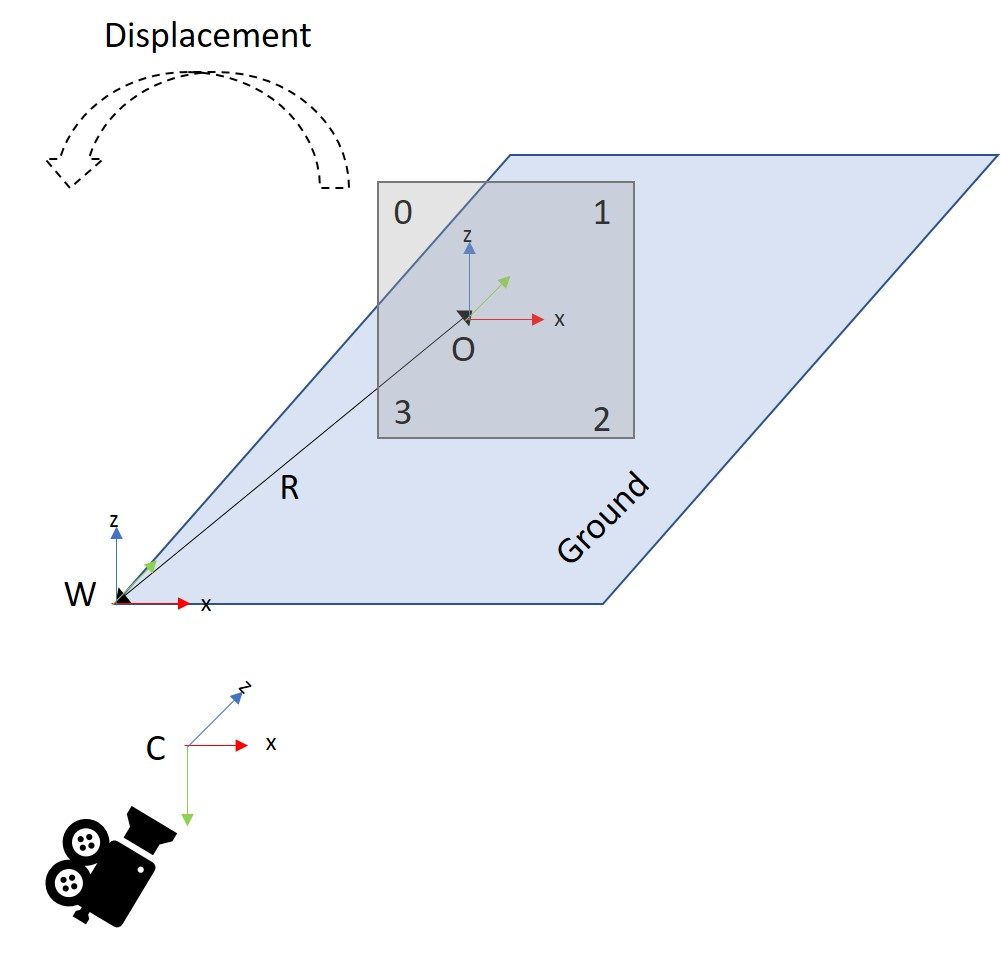
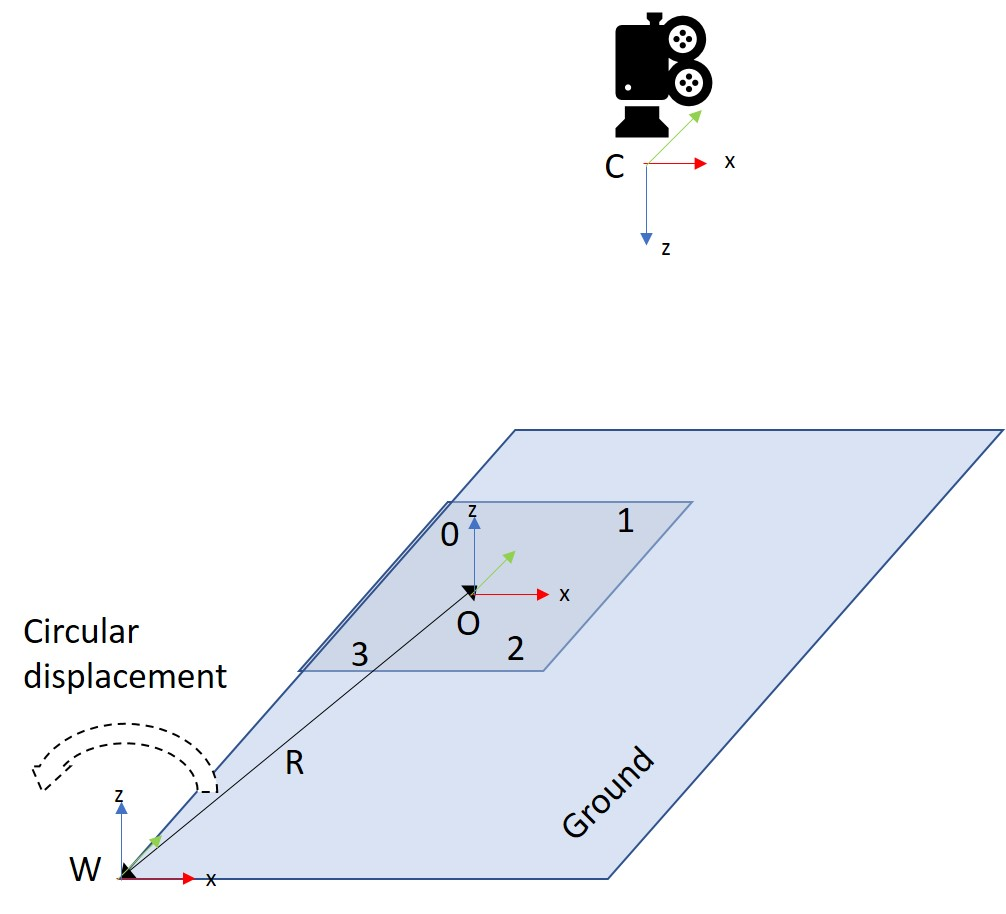
[TUTO] Changed motion in the XZ plane into motion in the XY plane [TUTO][DOC] Updated the documentation and images accordingly

diff --git a/tutorial/kalman/tutorial-ukf.cpp b/tutorial/kalman/tutorial-ukf.cpp
@@ -33,8 +33,9 @@
 /** \example tutorial-ukf.cpp
  * Tutorial on how to use the Unscented Kalman Filter (UKF) on a complex non-linear use-case.
  * The system is an object, whose coordinate frame origin is the point O, on which are sticked four markers.
- * The object revolves around a fixed point W whose coordinate frame is the world frame.
- * The scene is observed by a pinhole camera whose coordinate frame has the origin C.
+ * The object revolves in a plane parallel to the ground around a fixed point W whose coordinate frame is the world frame.
+ * The scene is observed by a pinhole camera whose coordinate frame has the origin C and which is
+ * fixed to the ceiling.
  *
  * The state vector of the UKF is:
  *  \f{eqnarray*}{
@@ -92,9 +93,9 @@
 vpColVector fx(const vpColVector &x, const double & /*dt*/)
 {
   vpColVector x_kPlus1(4);
-  x_kPlus1[0] = x[0] * std::cos(x[3]) - x[2] * std::sin(x[3]); // wX
-  x_kPlus1[1] = x[1]; // wY
-  x_kPlus1[2] = x[0] * std::sin(x[3]) + x[2] * std::cos(x[3]); // wZ
+  x_kPlus1[0] = x[0] * std::cos(x[3]) - x[1] * std::sin(x[3]); // wX
+  x_kPlus1[1] = x[0] * std::sin(x[3]) + x[1] * std::cos(x[3]); // wY
+  x_kPlus1[2] = x[2]; // wZ
   x_kPlus1[3] = x[3]; // omega * dt
   return x_kPlus1;
 }
@@ -113,13 +114,13 @@ public:
    * \param[in] R The radius of the revolution around the world frame origin.
    * \param[in] w The pulsation of the motion.
    * \param[in] phi The phase of the motion.
-   * \param[in] wY The y-coordinate of the object in the world frame.
+   * \param[in] wZ The y-coordinate of the object in the world frame.
    */
-  vpObjectSimulator(const double &R, const double &w, const double &phi, const double &wY)
+  vpObjectSimulator(const double &R, const double &w, const double &phi, const double &wZ)
     : m_R(R)
     , m_w(w)
     , m_phi(phi)
-    , m_wY(wY)
+    , m_wZ(wZ)
   { }
 
   /**
@@ -132,8 +133,8 @@ public:
   {
     vpColVector wX(4, 1.);
     wX[0] = m_R * std::cos(m_w * t + m_phi);
-    wX[1] = m_wY;
-    wX[2] = m_R * std::sin(m_w * t + m_phi);
+    wX[1] = m_R * std::sin(m_w * t + m_phi);
+    wX[2] = m_wZ;
     return wX;
   }
 
@@ -141,7 +142,7 @@ private:
   double m_R; // Radius of the revolution around the world frame origin.
   double m_w; // Pulsation of the motion.
   double m_phi; // Phase of the motion.
-  const double m_wY; // The y-coordinate of the object in the world frame.
+  const double m_wZ; // The z-coordinate of the object in the world frame.
 };
 //! [Object_simulator]
 
@@ -201,7 +202,7 @@ public:
    * \brief Perfect measurement of the projection of the markers in the image when the object
    * is located at \b wX.
    *
-   * \param[in] wX The actual position of the robot (wX[0]: x, wX[1]: y, wX[2] = z.
+   * \param[in] wX The actual position of the robot (wX[0]: x, wX[1]: y, wX[2] = z).
    * \return vpColVector [2*i] u_i [2*i + 1] v_i where i is the index of the marker.
    */
   vpColVector measureGT(const vpColVector &wX)
@@ -227,7 +228,7 @@ public:
    * \brief Noisy measurement of the projection of the markers in the image when the object
    * is located at \b wX.
    *
-   * \param[in] wX The actual position of the robot (wX[0]: x, wX[1]: y, wX[2] = z.
+   * \param[in] wX The actual position of the robot (wX[0]: x, wX[1]: y, wX[2] = z).
    * \return vpColVector [2*i] u_i [2*i + 1] v_i where i is the index of the marker.
    */
   vpColVector measureWithNoise(const vpColVector &wX)
@@ -283,13 +284,13 @@ int main(/*const int argc, const char *argv[]*/)
   //! [Constants_for_simulation]
   const double dt = 0.001; // Period of 0.1s
   const double sigmaMeasurements = 2.; // Standard deviation of the measurements: 2 pixels
-  const double radius = 0.5; // Radius of revolution of 0.5m
+  const double radius = 0.25; // Radius of revolution of 0.25m
   const double w = 2 * M_PI * 10; // Pulsation of the motion of revolution
   const double phi = 2; // Phase of the motion of revolution
-  const std::vector<vpColVector> markers = { vpColVector({-0.05, 0., -0.05, 1.})
-                                           , vpColVector({0.05, 0., -0.05, 1.})
-                                           , vpColVector({0.05, 0., 0.05, 1.})
-                                           , vpColVector({-0.05, 0., 0.05, 1.}) }; // Vector of the markers sticked on the object
+  const std::vector<vpColVector> markers = { vpColVector({-0.05, 0.05, 0., 1.})
+                                           , vpColVector({0.05, 0.05, 0., 1.})
+                                           , vpColVector({0.05, -0.05, 0., 1.})
+                                           , vpColVector({-0.05, -0.05, 0., 1.}) }; // Vector of the markers sticked on the object
   const unsigned int nbMarkers = markers.size();
   std::vector<vpPoint> markersAsVpPoint;
   for (unsigned int i = 0; i < nbMarkers; ++i) {
@@ -300,8 +301,8 @@ int main(/*const int argc, const char *argv[]*/)
   const long seed = 42; // Seed for the random generator
   vpHomogeneousMatrix cMw; // Pose of the world frame with regard to the camera frame
   cMw[0][0] = 1.; cMw[0][1] = 0.; cMw[0][2] = 0.; cMw[0][3] = 0.2;
-  cMw[1][0] = 0.; cMw[1][1] = 0.; cMw[1][2] = -1.; cMw[1][3] = 0.3;
-  cMw[2][0] = 0.; cMw[2][1] = 1.; cMw[2][2] = 0.; cMw[2][3] = 1.;
+  cMw[1][0] = 0.; cMw[1][1] = -1.; cMw[1][2] = 0.; cMw[1][3] = 0.3;
+  cMw[2][0] = 0.; cMw[2][1] = 0.; cMw[2][2] = -1.; cMw[2][3] = 1.;
 
   vpHomogeneousMatrix wMo; // Pose of the object frame with regard to the world frame
   wMo[0][0] = 1.; wMo[0][1] = 0.; wMo[0][2] = 0.; wMo[0][3] = radius;
@@ -309,7 +310,7 @@ int main(/*const int argc, const char *argv[]*/)
   wMo[2][0] = 0.; wMo[2][1] = 0.; wMo[2][2] = 1.; wMo[2][3] = 0.2;
   vpRotationMatrix wRo; // Rotation between the object frame and world frame
   wMo.extract(wRo);
-  const double wY = wMo[1][3];
+  const double wZ = wMo[2][3];
   //! [Constants_for_simulation]
 
   //! [Camera_for_measurements]
@@ -352,8 +353,8 @@ int main(/*const int argc, const char *argv[]*/)
 
   vpColVector X0(4); // The initial guess for the state
   X0[0] = radius; // wX = radius m
-  X0[1] = 0.95 * wY; // Wrong estimation of the position along the y-axis: error of 5%
-  X0[2] = 0; // wZ = 0m
+  X0[1] = 0.; // wY = 0m
+  X0[2] = 0.95 * wZ; // Wrong estimation of the position along the z-axis: error of 5%
   X0[3] = 0.75 * w * dt; // Wrong estimation of the pulsation: error of 25%
   //! [Initial_estimates]
 
@@ -377,7 +378,7 @@ int main(/*const int argc, const char *argv[]*/)
   plot.initGraph(0, 3);
   plot.setTitle(0, "Position of the robot wX");
   plot.setUnitX(0, "Position along x(m)");
-  plot.setUnitY(0, "Position along z (m)");
+  plot.setUnitY(0, "Position along y (m)");
   plot.setLegend(0, 0, "GT");
   plot.setLegend(0, 1, "Filtered");
   plot.setLegend(0, 2, "Measure");
@@ -412,7 +413,7 @@ int main(/*const int argc, const char *argv[]*/)
 
   //! [Init_simu]
   // Initialize the simulation
-  vpObjectSimulator object(radius, w, phi, wY);
+  vpObjectSimulator object(radius, w, phi, wZ);
   vpColVector object_pos = X0;
   //! [Init_simu]
 
@@ -447,19 +448,19 @@ int main(/*const int argc, const char *argv[]*/)
     vpHomogeneousMatrix cMo_noisy = computePose(markersAsVpPoint, ip, cam);
     vpHomogeneousMatrix wMo_noisy = cMw.inverse() * cMo_noisy;
     double wXnoisy = wMo_noisy[0][3];
-    double wZnoisy = wMo_noisy[2][3];
+    double wYnoisy = wMo_noisy[1][3];
     //! [Noisy_pose]
 
     //! [Update_plot]
     // Plot the ground truth
-    plot.plot(0, 0, object_pos[0], object_pos[2]);
+    plot.plot(0, 0, object_pos[0], object_pos[1]);
 
     // Plot the filtered state
     vpColVector Xest = ukf.getXest();
-    plot.plot(0, 1, Xest[0], Xest[2]);
+    plot.plot(0, 1, Xest[0], Xest[1]);
 
     // Plot the noisy pose
-    plot.plot(0, 2, wXnoisy, wZnoisy);
+    plot.plot(0, 2, wXnoisy, wYnoisy);
     //! [Update_plot]
 
     //! [Update_renderer]
